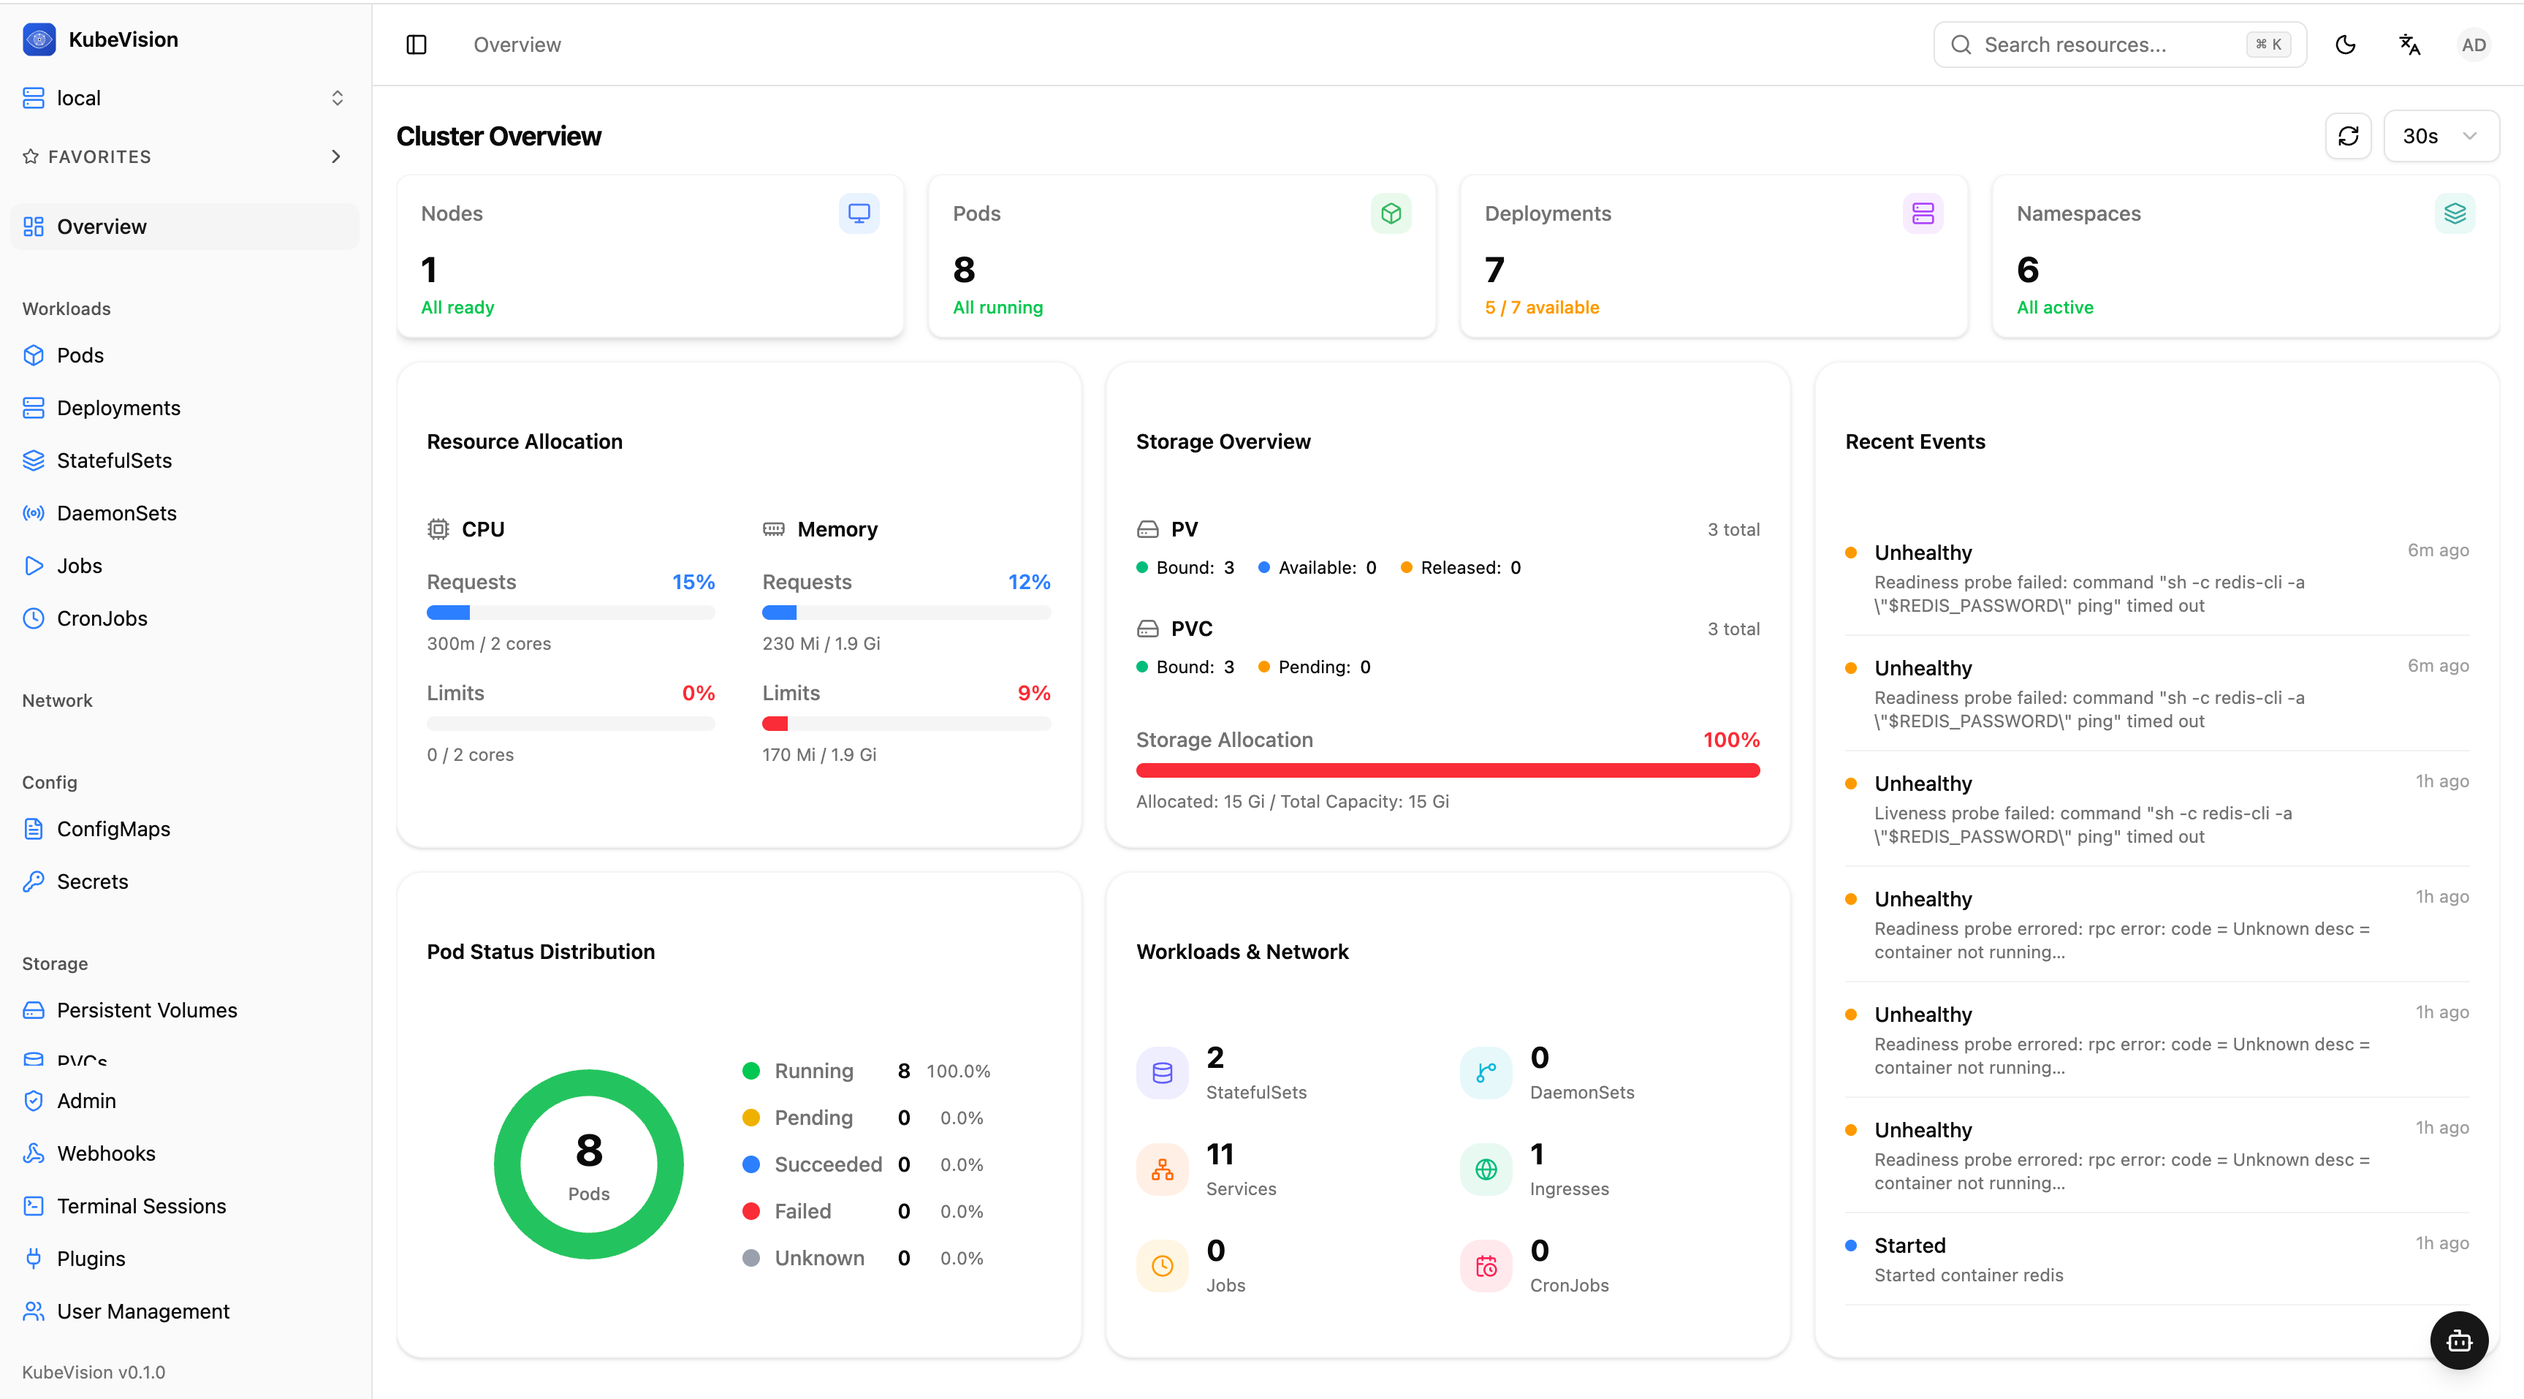
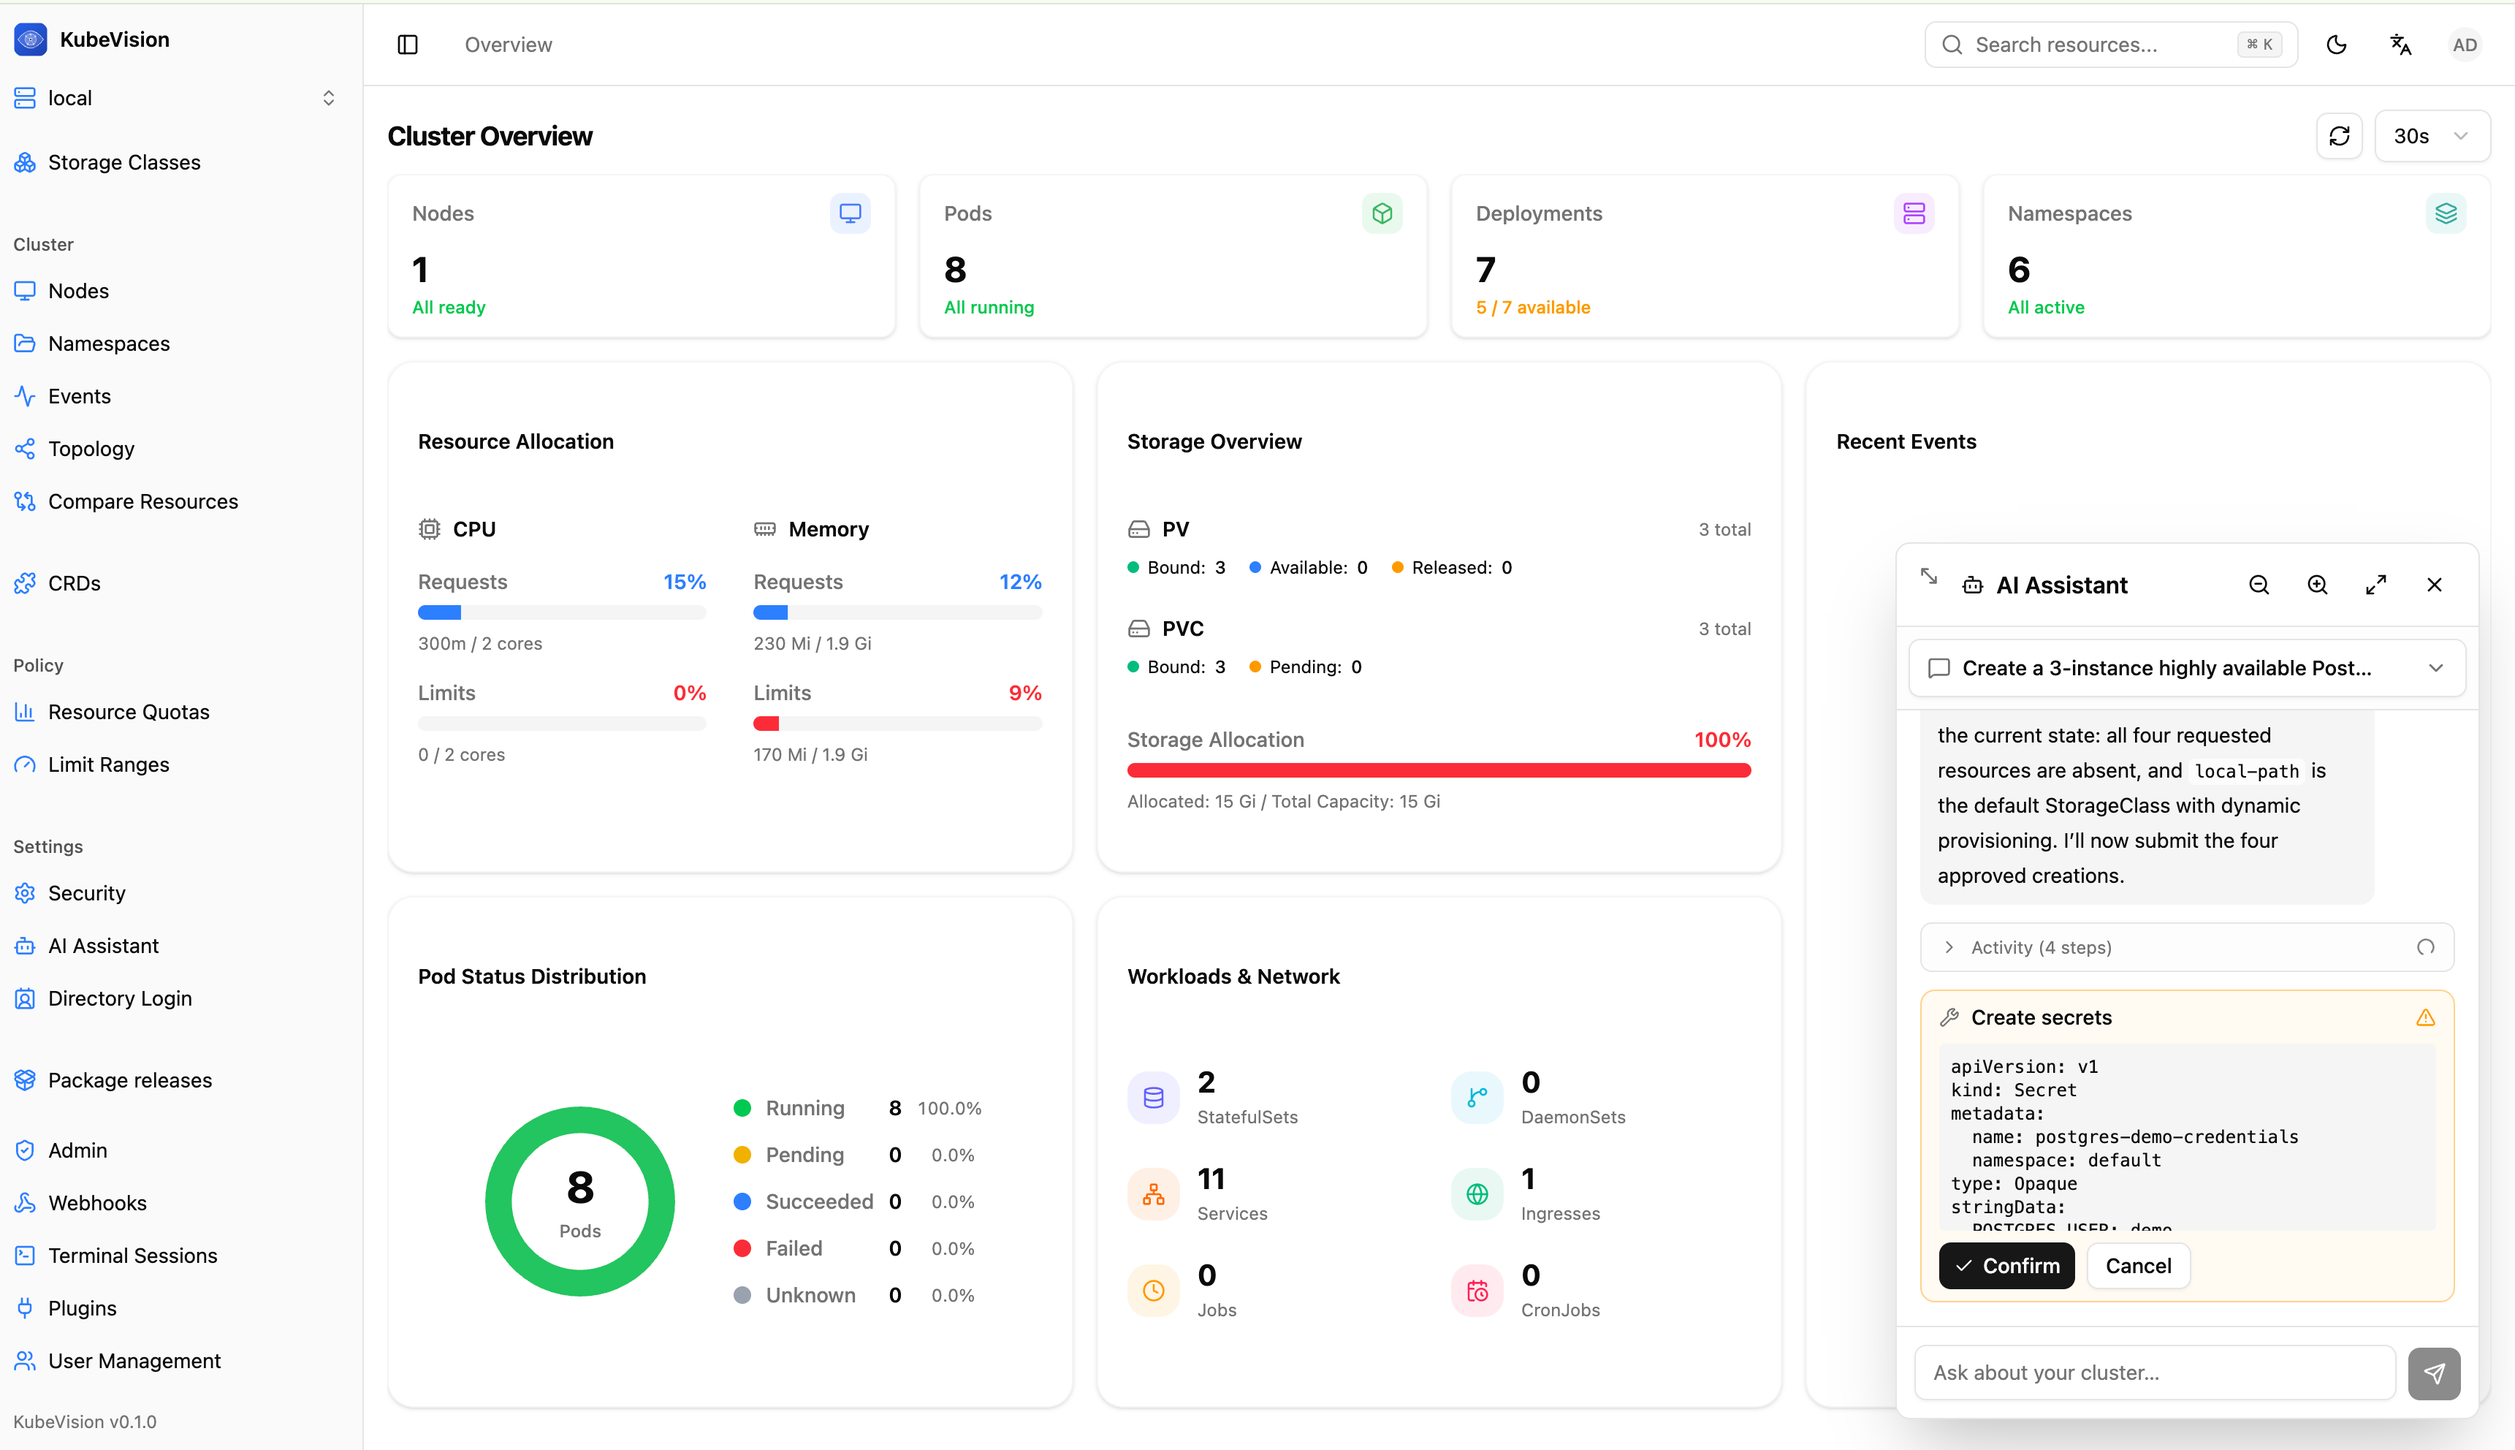
docs: clarify production access and refresh overview

diff --git a/docs/src/components/HomepageQuickstart/index.tsx b/docs/src/components/HomepageQuickstart/index.tsx
@@ -29,7 +29,7 @@ helm repo update
 # Install KubeVision
 helm install kubevision gocronx/kubevision
 
-# Access the dashboard
+# Temporarily access the dashboard from this machine
 kubectl port-forward svc/kubevision 8080:8080
 open http://localhost:8080`}
               </CodeBlock>

diff --git a/docs/docs/getting-started/installation.md b/docs/docs/getting-started/installation.md
@@ -49,6 +49,67 @@ auth:
 helm install kubevision gocronx/kubevision -f values.yaml
 ```
 
+## Accessing KubeVision
+
+### Local or Temporary Access
+
+Use port forwarding for local evaluation or troubleshooting:
+
+```bash
+kubectl port-forward --namespace kubevision svc/kubevision 8080:8080
+```
+
+Then open `http://localhost:8080`. The forwarding process must remain running;
+this is not a production access method.
+
+### Production Access with Ingress
+
+For production, use an Ingress or Gateway with a stable DNS name and TLS. The
+cluster must already have an Ingress controller and the referenced TLS Secret:
+
+```yaml
+# production-values.yaml
+ingress:
+  enabled: true
+  className: nginx
+  hosts:
+    - host: kubevision.example.com
+      paths:
+        - path: /
+          pathType: Prefix
+  tls:
+    - secretName: kubevision-tls
+      hosts:
+        - kubevision.example.com
+```
+
+```bash
+helm upgrade --install kubevision gocronx/kubevision \
+  --namespace kubevision \
+  --create-namespace \
+  -f production-values.yaml
+```
+
+Open `https://kubevision.example.com` after DNS points to the Ingress endpoint.
+For passkeys/security keys, the public hostname must also match the configured
+RP ID and origin.
+
+### Production Access with LoadBalancer
+
+If the cluster provides external load balancers, expose the Service directly:
+
+```bash
+helm upgrade --install kubevision gocronx/kubevision \
+  --namespace kubevision \
+  --create-namespace \
+  --set service.type=LoadBalancer
+
+kubectl get svc --namespace kubevision kubevision
+```
+
+Terminate TLS at the load balancer or an upstream proxy. Do not expose the
+dashboard over plain HTTP on an untrusted network.
+
 ## Docker
 
 ```bash
@@ -79,14 +140,17 @@ pnpm dev    # starts on :5173, proxies /api → :8080
 
 ## Verify Installation
 
-Open `http://localhost:8080` in your browser.
+Open the URL selected above: `http://localhost:8080` for port forwarding, or
+the configured HTTPS hostname for production.
 
 Default credentials:
 - **Username:** `admin`
 - **Password:** `admin123`
 
 :::warning
-Change the default password immediately after first login.
+Change the default password immediately after first login. Production
+deployments should also use PostgreSQL, persistent backups, explicit secrets,
+and enforced 2FA for administrator accounts.
 :::
 
 ## Next Steps

diff --git a/docs/i18n/zh-Hans/docusaurus-plugin-content-docs/current/getting-started/installation.md b/docs/i18n/zh-Hans/docusaurus-plugin-content-docs/current/getting-started/installation.md
@@ -49,6 +49,65 @@ auth:
 helm install kubevision gocronx/kubevision -f values.yaml
 ```
 
+## 访问 KubeVision
+
+### 本地或临时访问
+
+本地体验或故障排查时可使用端口转发：
+
+```bash
+kubectl port-forward --namespace kubevision svc/kubevision 8080:8080
+```
+
+然后访问 `http://localhost:8080`。端口转发进程必须保持运行，因此不适合作为生产
+环境的访问方式。
+
+### 通过 Ingress 进行生产访问
+
+生产环境应使用具有稳定域名和 TLS 的 Ingress 或 Gateway。集群中需要预先安装
+Ingress Controller，并创建示例中引用的 TLS Secret：
+
+```yaml
+# production-values.yaml
+ingress:
+  enabled: true
+  className: nginx
+  hosts:
+    - host: kubevision.example.com
+      paths:
+        - path: /
+          pathType: Prefix
+  tls:
+    - secretName: kubevision-tls
+      hosts:
+        - kubevision.example.com
+```
+
+```bash
+helm upgrade --install kubevision gocronx/kubevision \
+  --namespace kubevision \
+  --create-namespace \
+  -f production-values.yaml
+```
+
+将 DNS 指向 Ingress 入口后，访问 `https://kubevision.example.com`。使用通行密钥或
+安全密钥时，公开域名还必须与配置的 RP ID 和来源保持一致。
+
+### 通过 LoadBalancer 进行生产访问
+
+如果集群支持外部负载均衡器，也可以直接暴露 Service：
+
+```bash
+helm upgrade --install kubevision gocronx/kubevision \
+  --namespace kubevision \
+  --create-namespace \
+  --set service.type=LoadBalancer
+
+kubectl get svc --namespace kubevision kubevision
+```
+
+应在负载均衡器或上游代理处终止 TLS，不要在不可信网络中通过纯 HTTP 暴露仪表盘。
+
 ## Docker
 
 ```bash
@@ -79,14 +138,16 @@ pnpm dev    # starts on :5173, proxies /api → :8080
 
 ## 验证安装
 
-在浏览器中打开 `http://localhost:8080`。
+打开上面选择的访问地址：端口转发使用 `http://localhost:8080`，生产环境使用配置
+好的 HTTPS 域名。
 
 默认登录凭据：
 - **用户名：** `admin`
 - **密码：** `admin123`
 
 :::warning
-首次登录后请立即修改默认密码。
+首次登录后请立即修改默认密码。生产部署还应使用 PostgreSQL、持久化备份、明确
+配置的密钥，并对管理员账号强制启用双因素认证。
 :::
 
 ## 下一步

diff --git a/README_CN.md b/README_CN.md
@@ -84,8 +84,8 @@ KubeVision 采用人机协同模式。AI 可以协助调查和执行，但不会
 # 1. 安装 KubeVision
 helm install kubevision deploy/helm/kubevision
 
-# 2. 使用端口转发访问仪表盘
-kubectl port-forward svc/kubevision 8080:80
+# 2. 从本机临时访问仪表盘
+kubectl port-forward svc/kubevision 8080:8080
 
 # 3. 访问 Web 界面
 # http://localhost:8080
@@ -93,7 +93,11 @@ kubectl port-forward svc/kubevision 8080:80
 
 > 默认登录账号：`admin` / `admin123`
 >
-> 其他部署方式（Docker、二进制、本地开发）请参阅[安装指南](https://kubevision-docs.pages.dev/docs/getting-started/installation)。
+> `kubectl port-forward` 仅适用于本地体验和故障排查。生产环境应通过启用 HTTPS
+> 的 Ingress/Gateway 或 `LoadBalancer` Service 暴露 KubeVision。详情请参阅
+> [安装指南](https://kubevision-docs.pages.dev/zh-Hans/docs/getting-started/installation#访问-kubevision)。
+>
+> 其他部署方式（Docker、二进制、本地开发）请参阅[安装指南](https://kubevision-docs.pages.dev/zh-Hans/docs/getting-started/installation)。
 
 ## 🔷 CLI 与 AI 助手
 

diff --git a/README.md b/README.md
@@ -86,15 +86,19 @@ The fastest way to deploy KubeVision in your cluster is via Helm:
 # 1. Install KubeVision
 helm install kubevision deploy/helm/kubevision
 
-# 2. Port-forward to access the dashboard
-kubectl port-forward svc/kubevision 8080:80
+# 2. Temporarily access the dashboard from your local machine
+kubectl port-forward svc/kubevision 8080:8080
 
-# 3. Access Web Interface
+# 3. Open the web interface
 # http://localhost:8080
 ```
 
 > Default login credentials: `admin` / `admin123`
-> 
+>
+> `kubectl port-forward` is intended for local evaluation and troubleshooting.
+> For production, expose KubeVision through an HTTPS Ingress/Gateway or a
+> `LoadBalancer` Service. See the [Installation Guide](https://kubevision-docs.pages.dev/docs/getting-started/installation#accessing-kubevision).
+>
 > For other deployment methods (Docker, Binary, Development), please refer to the [Installation Guide](https://kubevision-docs.pages.dev/docs/getting-started/installation).
 
 ## 🔷 CLI & AI Assistant

diff --git a/docs/docs/getting-started/quick-start.md b/docs/docs/getting-started/quick-start.md
@@ -9,7 +9,9 @@ This guide walks you through your first 5 minutes with KubeVision.
 
 ## 1. Login
 
-Navigate to `http://localhost:8080` and login with:
+Open the URL chosen during installation. For local port forwarding this is
+`http://localhost:8080`; production deployments should use their configured
+HTTPS hostname. Log in with:
 - Username: `admin`
 - Password: `admin123`
 

diff --git a/docs/i18n/zh-Hans/docusaurus-plugin-content-docs/current/getting-started/quick-start.md b/docs/i18n/zh-Hans/docusaurus-plugin-content-docs/current/getting-started/quick-start.md
@@ -9,7 +9,8 @@ title: 快速开始
 
 ## 1. 登录
 
-访问 `http://localhost:8080`，使用以下凭据登录：
+打开安装时选择的访问地址。本地端口转发使用 `http://localhost:8080`；生产部署应
+使用配置好的 HTTPS 域名。使用以下凭据登录：
 - 用户名：`admin`
 - 密码：`admin123`
 
